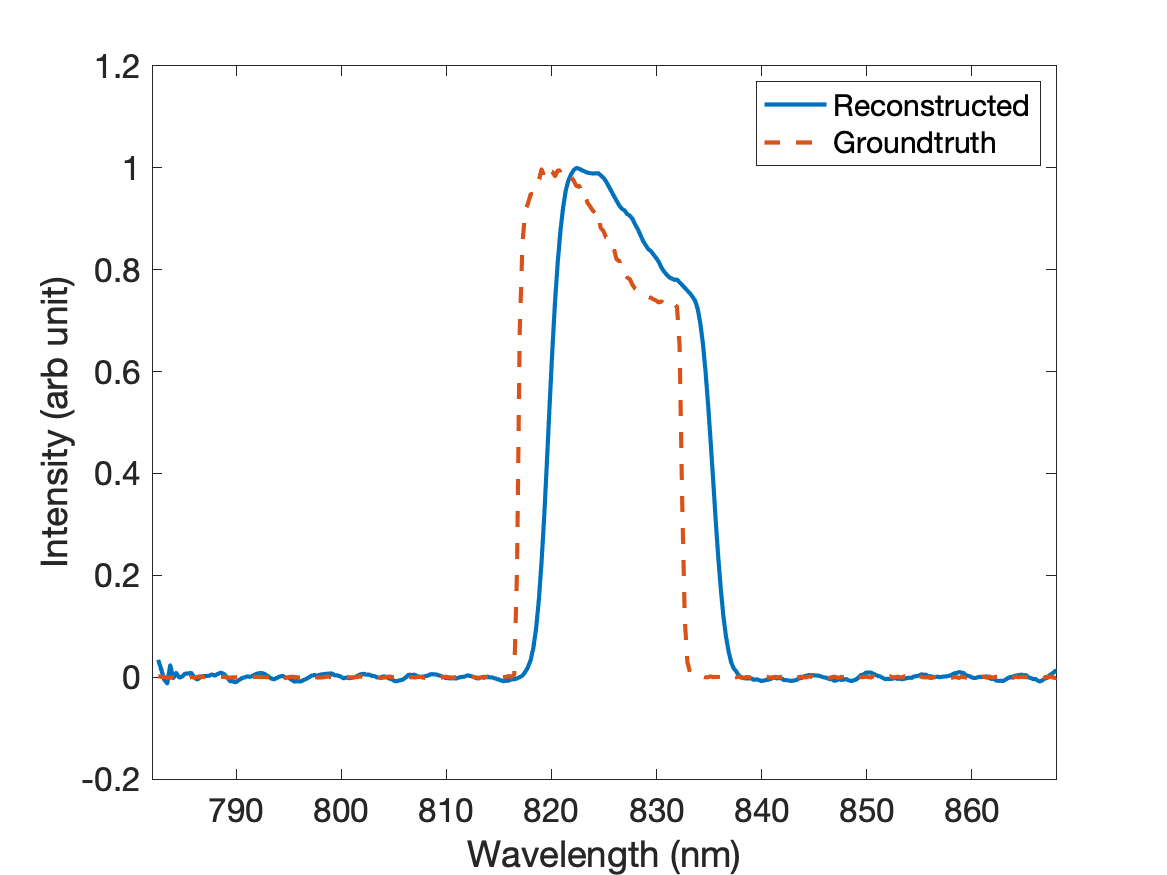
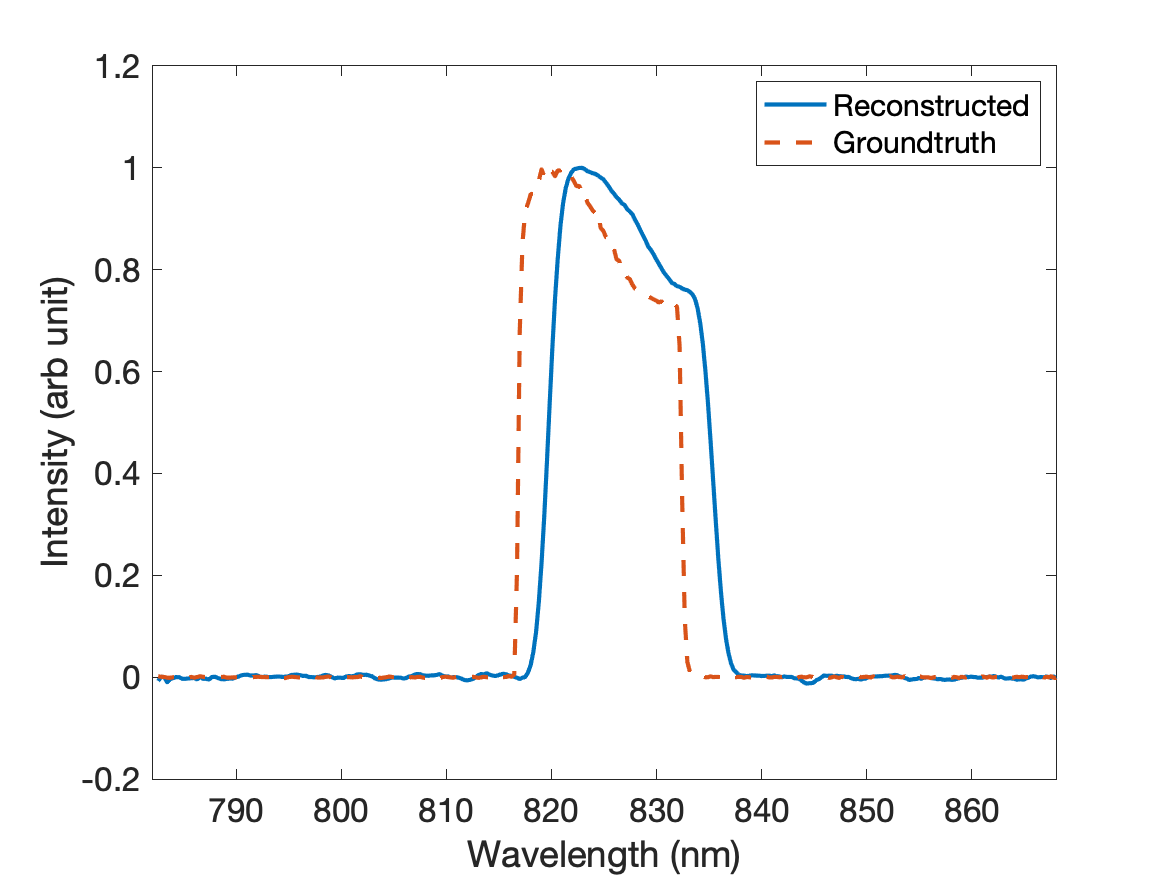
cleaned up the way we import ground truth spectrum. Added recon code for using the gauss SVD method.

diff --git a/Processing Code/Recon Scripts/midBandRecon_0001.m b/Processing Code/Recon Scripts/midBandRecon_0001.m
@@ -24,39 +24,19 @@ filename = './Raw Data/120grit_partialBroadbandSpectrum_2022-06-16/partialSpectr
 bgfilename = './Raw Data/120grit_partialBroadbandSpectrum_2022-06-16/partialSpectrum/background_partialSpectrum_#0001.tif';
 
 spectrumForRecon_sampled = loadTestMeasurement(filename,bgfilename,sampxy,sampfac);
-%% load gt spectrum (BUGGY) %ASK JOE FOR BETTER WAY
-% load groundtruth spectrum
-
+%% load gt spectrum 
 % load calibration files  WHAT ARE THESE?
-load './Datasets matFiles/120grit/calibrationCurve.mat'
-load './Datasets matFiles/120grit/calibrationOrig.mat'
-load './Datasets matFiles/120grit/signalRange.mat'
+load './Datasets matFiles/120grit/wavelength_gt.mat'
 
 filename = './Raw Data/120grit_partialBroadbandSpectrum_2022-06-16/partialSpectrum_gt/partialSpectrum_1.spf2';
-% CHECK THIS FUNCTION - ELSE DELETE
+
 [partialSpectrum_gt,partialSpectrumWavelengths_gt] = ...
-    readSPF2_withCalibration(calibrationCurve,calibrationOrig,signalRange,filename);
+    readSPF2_withCalibration(wavelengthOrig,wavelengthCorrected,signalRange,filename,calibrationWavelengths_fit);
 partialSpectrum_gt = partialSpectrum_gt/max(partialSpectrum_gt(:));
 
-% WHY RESIZE?
-partialSpectrum_gt = imresize(partialSpectrum_gt,...
-    [344 size(partialSpectrum_gt,2)]);
-partialSpectrumWavelengths_gt = imresize(partialSpectrumWavelengths_gt,...
-    [344 size(partialSpectrumWavelengths_gt,2)]);
-
+figure;
+hold on
 plot(partialSpectrumWavelengths_gt,partialSpectrum_gt)
-xlabel('Wavelength (nm)')
-ylabel('normallized intensity')
-legend('groundtruth')
-
-%% load gt spectrum (My way)
-filename = './Raw Data/120grit_partialBroadbandSpectrum_2022-06-16/partialSpectrum_gt/partialSpectrum_1.spf2';
-[~,spectrum_gt] = readSPF2withInterp1(calibrationWavelengths_fit,filename);
-
-% normalize
-spectrum_gt = spectrum_gt/max(spectrum_gt);
-
-plot(calibrationWavelengths_fit,spectrum_gt)
 xlabel('Wavelength (nm)')
 ylabel('normallized intensity')
 legend('groundtruth')
@@ -66,10 +46,10 @@ thresh = 0.01; %2 is optimal
 [recon,Alr,Ainv,Dprime,Dprime_thresh] = TruncSVD(spectralPSF_2D,...
     spectrumForRecon_sampled,thresh);
 recon = abs(recon/max(recon(:)));
-
+figure;
 plot(calibrationWavelengths_fit,recon)
 hold on
-plot(calibrationWavelengths_fit,spectrum_gt,'--')
+plot(calibrationWavelengths_fit,partialSpectrum_gt,'--')
 
 xlabel('Wavelength (nm)')
 ylabel('Intensity (arb unit)')
@@ -83,7 +63,8 @@ recon_gauss = gaussSVD(spectralPSF_2D,spectrumForRecon_sampled,sigma);
 fig = figure(1);
 plot(calibrationWavelengths_fit,recon_gauss)
 hold on
-plot(calibrationWavelengths_fit,spectrum_gt,'--')
+% plot(calibrationWavelengths_fit,spectrum_gt,'--')
+plot(partialSpectrumWavelengths_gt,partialSpectrum_gt)
 
 xlabel('Wavelength (nm)')
 ylabel('Intensity (arb unit)')
@@ -92,7 +73,26 @@ xlim([782,868])
 legend('Reconstructed','Groundtruth')
 
 % save figure in results
+% 
+% resultfile = './Results/120grit_midband0001_gaussSVD_30';
+% saveas(fig, resultfile,'png')
+% saveas(fig, resultfile,'eps')
 
-resultfile = './Results/120grit_midband0001_gaussSVD_30';
-saveas(fig, resultfile,'png')
-saveas(fig, resultfile,'eps')
+%% Try ridge regression
+lambda = 10000;
+% matlab statistical and machine learning toolbox has builtin ridge
+% regression
+recon_ridge = ridge(spectrumForRecon_sampled, spectralPSF_2D,lambda);
+recon_ridge = recon_ridge/max(recon_ridge);
+fig = figure(1);
+plot(calibrationWavelengths_fit,recon_ridge)
+hold on
+% plot(calibrationWavelengths_fit,spectrum_gt,'--')
+plot(partialSpectrumWavelengths_gt,partialSpectrum_gt)
+
+xlabel('Wavelength (nm)')
+ylabel('Intensity (arb unit)')
+ylim([-0.2,1.2])
+xlim([782,868])
+legend('Reconstructed','Groundtruth')
+

diff --git a/Helper Functions/Data Loading/readSPF2_withCalibration.m b/Helper Functions/Data Loading/readSPF2_withCalibration.m
@@ -1,14 +1,18 @@
-function [spectrum,wavelength] = readSPF2_withCalibration(calibrationCurve,...
-    calibrationOrig,signalRange,filename)
+% readSPF2_withCalibration.m
+% last argument (wavelengthInterp) is optional. It will resample the
+% spectrum after calibration correction. 
+
+function [spectrum,wavelength] = readSPF2_withCalibration(wavelengthOrig,...
+    wavelengthCorrected,signalRange,filename1,wavelengthInterp)
 
     %if no filename is supplied, open the GUI to select the file
-    if isempty(filename)
+    if nargin<4
         disp('Select ground truth for measurement')
         [spf2File,path] = uigetfile('.spf2');
-        filename = [path,spf2File]
+        filename1 = [path,spf2File]
     end
     
-    data = readSPF2(filename);
+    data = readSPF2(filename1);
     
     % if signalRange isn't specified, use default
     if isempty(signalRange)
@@ -17,7 +21,14 @@ function [spectrum,wavelength] = readSPF2_withCalibration(calibrationCurve,...
     
     wavelength = data(signalRange,1); %get subset of spectrometer input
     
-    %apply correction spectrometer output and sample at calibration
-    %wavelengths?  %ASK JOE
-    spectrum = interp1(calibrationCurve,data(signalRange,2),calibrationOrig);
+    %apply correction spectrometer output and sample at calibration (2 nm
+    %shift)
+    spectrum = interp1(wavelengthOrig,data(signalRange,2),wavelengthCorrected);
+
+    if nargin<5
+        %do nothing
+    else
+        spectrum = interp1(wavelength,spectrum,wavelengthInterp);
+        wavelength = wavelengthInterp;
+    end
 end
